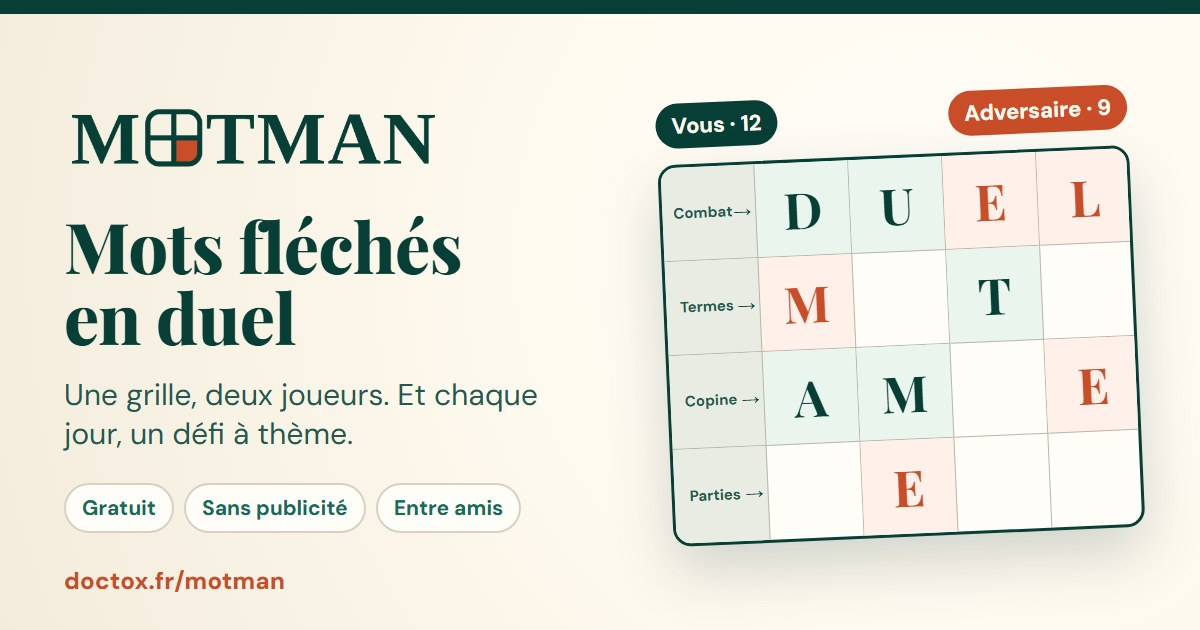
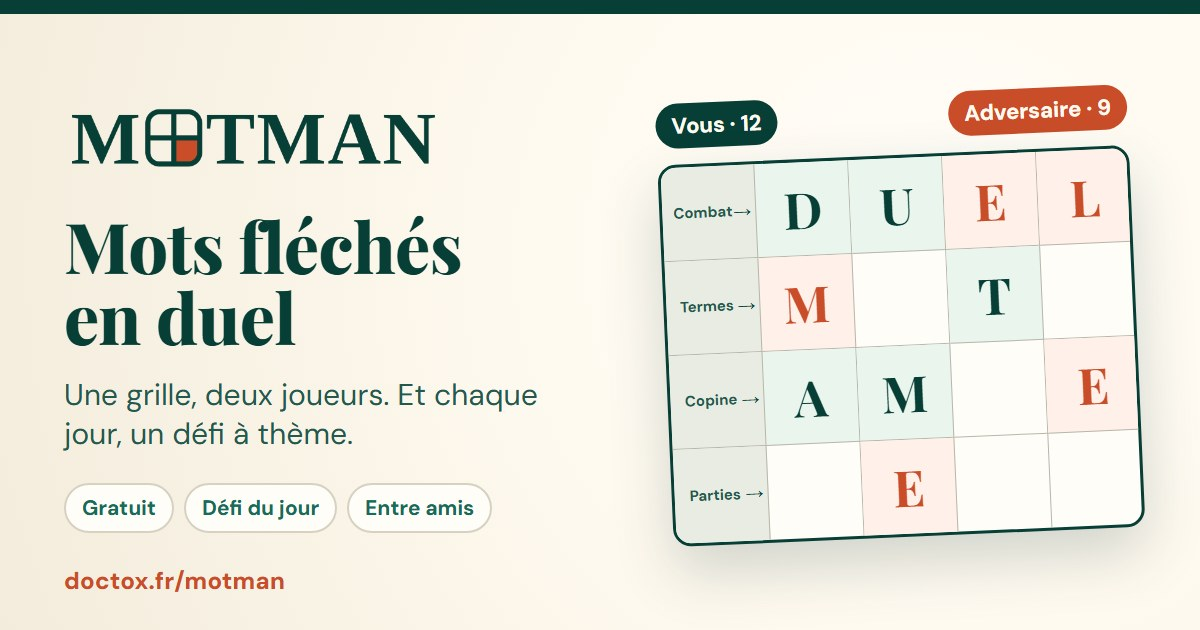
Referencement : retire la mention « sans publicite » (image d'apercu, presentation, README)

Changed region(s): [[0.1542, 0.754, 0.4317, 0.8444]]

diff --git a/index.html b/index.html
@@ -1,5 +1,5 @@
 <!doctype html><html lang="fr"><head><meta charset="UTF-8"/><meta name="viewport" content="width=device-width,initial-scale=1,viewport-fit=cover"/><meta name="theme-color" content="#073f36"/><link rel="preload" href="%BASE_URL%assets/fonts/dm-sans-latin-variable.woff2" as="font" type="font/woff2" crossorigin/><link rel="preload" href="%BASE_URL%assets/fonts/playfair-display-latin-variable.woff2" as="font" type="font/woff2" crossorigin/><link rel="icon" type="image/png" sizes="32x32" href="%BASE_URL%assets/icons/favicon-32.png"/><link rel="manifest" href="manifest.webmanifest"/><link rel="apple-touch-icon" href="%BASE_URL%assets/icons/apple-touch-icon.png"/><meta name="mobile-web-app-capable" content="yes"/><meta name="apple-mobile-web-app-capable" content="yes"/><meta name="apple-mobile-web-app-title" content="MotMan"/><meta name="apple-mobile-web-app-status-bar-style" content="default"/><title>MotMan · Mots fléchés en duel, gratuits en ligne</title>
 <!-- Référencement et aperçus de lien (Google, WhatsApp, Messenger…). Adresses ABSOLUES : ce sont celles du site public, quel que soit le build (GitHub Pages, APK). L'image vient de scripts/build_social_image.mjs ; check_pages_artifact vérifie qu'elle existe. -->
-<meta name="description" content="Jouez aux mots fléchés en duel : la même grille pour deux joueurs, contre un ami, un joueur ou un bot. Défi du jour à thème, classement et séries. Gratuit, sans publicité."/><link rel="canonical" href="https://www.doctox.fr/motman/"/><meta property="og:type" content="website"/><meta property="og:site_name" content="MotMan"/><meta property="og:locale" content="fr_FR"/><meta property="og:title" content="MotMan · Mots fléchés en duel"/><meta property="og:description" content="Une grille, deux joueurs. Et chaque jour, un défi à thème. Gratuit et sans publicité."/><meta property="og:url" content="https://www.doctox.fr/motman/"/><meta property="og:image" content="https://www.doctox.fr/motman/assets/social/motman-partage.jpg"/><meta property="og:image:width" content="1200"/><meta property="og:image:height" content="630"/><meta property="og:image:alt" content="MotMan, mots fléchés en duel : une grille partagée entre deux joueurs"/><meta name="twitter:card" content="summary_large_image"/>
+<meta name="description" content="Jouez aux mots fléchés en duel : la même grille pour deux joueurs, contre un ami, un joueur ou un bot. Défi du jour à thème, classement et séries. Gratuit, sur téléphone, tablette et ordinateur."/><link rel="canonical" href="https://www.doctox.fr/motman/"/><meta property="og:type" content="website"/><meta property="og:site_name" content="MotMan"/><meta property="og:locale" content="fr_FR"/><meta property="og:title" content="MotMan · Mots fléchés en duel"/><meta property="og:description" content="Une grille, deux joueurs. Et chaque jour, un défi à thème. Gratuit, entre amis ou contre un bot."/><meta property="og:url" content="https://www.doctox.fr/motman/"/><meta property="og:image" content="https://www.doctox.fr/motman/assets/social/motman-partage.jpg"/><meta property="og:image:width" content="1200"/><meta property="og:image:height" content="630"/><meta property="og:image:alt" content="MotMan, mots fléchés en duel : une grille partagée entre deux joueurs"/><meta name="twitter:card" content="summary_large_image"/>
 <script type="application/ld+json">{"@context":"https://schema.org","@type":"VideoGame","name":"MotMan","url":"https://www.doctox.fr/motman/","image":"https://www.doctox.fr/motman/assets/social/motman-partage.jpg","description":"Jeu de mots fléchés en duel : deux joueurs partagent la même grille. Défi du jour à thème, classement, parties entre amis.","inLanguage":"fr","genre":["Mots fléchés","Jeu de lettres"],"playMode":["MultiPlayer","SinglePlayer"],"gamePlatform":["Navigateur web","Android"],"applicationCategory":"GameApplication","operatingSystem":"Web, Android","offers":{"@type":"Offer","price":"0","priceCurrency":"EUR"}}</script>
-</head><body><div id="root"></div><noscript><main style="max-width:36em;margin:48px auto;padding:0 20px;font-family:system-ui,sans-serif;color:#073f36"><h1>MotMan, les mots fléchés en duel</h1><p>Deux joueurs, une seule grille : chaque lettre juste colore une case à votre nom. Défi du jour à thème, parties entre amis, classement. Gratuit et sans publicité.</p><p>MotMan a besoin de JavaScript pour fonctionner. <a href="mots-fleches-en-duel/">Découvrir le jeu</a></p></main></noscript><script type="module" src="/src/main.tsx"></script></body></html>
+</head><body><div id="root"></div><noscript><main style="max-width:36em;margin:48px auto;padding:0 20px;font-family:system-ui,sans-serif;color:#073f36"><h1>MotMan, les mots fléchés en duel</h1><p>Deux joueurs, une seule grille : chaque lettre juste colore une case à votre nom. Défi du jour à thème, parties entre amis, classement. Gratuit.</p><p>MotMan a besoin de JavaScript pour fonctionner. <a href="mots-fleches-en-duel/">Découvrir le jeu</a></p></main></noscript><script type="module" src="/src/main.tsx"></script></body></html>

diff --git a/public/mots-fleches-en-duel/index.html b/public/mots-fleches-en-duel/index.html
@@ -4,7 +4,7 @@
 <meta charset="utf-8">
 <meta name="viewport" content="width=device-width,initial-scale=1">
 <title>Mots fléchés en duel, gratuits en ligne · MotMan</title>
-<meta name="description" content="MotMan : les mots fléchés à deux sur la même grille, contre un ami, un joueur ou un bot. Défi du jour à thème, classement et séries. Gratuit, sans publicité, sur téléphone, tablette et ordinateur.">
+<meta name="description" content="MotMan : les mots fléchés à deux sur la même grille, contre un ami, un joueur ou un bot. Défi du jour à thème, classement et séries. Gratuit, sur téléphone, tablette et ordinateur.">
 <link rel="canonical" href="https://www.doctox.fr/motman/mots-fleches-en-duel/">
 <meta name="theme-color" content="#073f36">
 <link rel="icon" type="image/png" sizes="32x32" href="../assets/icons/favicon-32.png">
@@ -13,7 +13,7 @@
 <meta property="og:site_name" content="MotMan">
 <meta property="og:locale" content="fr_FR">
 <meta property="og:title" content="Mots fléchés en duel · MotMan">
-<meta property="og:description" content="Une grille, deux joueurs. Et chaque jour, un défi à thème. Gratuit et sans publicité.">
+<meta property="og:description" content="Une grille, deux joueurs. Et chaque jour, un défi à thème. Gratuit, entre amis ou contre un bot.">
 <meta property="og:url" content="https://www.doctox.fr/motman/mots-fleches-en-duel/">
 <meta property="og:image" content="https://www.doctox.fr/motman/assets/social/motman-partage.jpg">
 <meta property="og:image:width" content="1200">
@@ -127,7 +127,7 @@ footer a{color:var(--ink-soft)}
         <h1>Les mots fléchés, en duel</h1>
         <p class="intro">Sur MotMan, vous partagez la même grille qu’un autre joueur. Chaque lettre juste colore une case à votre nom&nbsp;: à la fin, le meilleur score l’emporte.</p>
         <a class="bouton" href="../">Jouer maintenant</a>
-        <p class="precision">Gratuit, sans publicité, sans rien télécharger. On joue tout de suite, sans inscription.</p>
+        <p class="precision">Gratuit, sans rien télécharger. On joue tout de suite, sans inscription.</p>
       </div>
       <div class="jeu" aria-hidden="true">
         <div class="scores"><span class="vous">Vous · 12</span><span class="adv">Adversaire · 9</span></div>
@@ -223,7 +223,7 @@ footer a{color:var(--ink-soft)}
       <h2>Questions fréquentes</h2>
       <p class="chapeau">Tout ce qu’il faut savoir avant la première grille.</p>
       <div class="questions">
-        <details><summary>MotMan est-il vraiment gratuit&nbsp;?</summary><p>Oui. MotMan est gratuit et n’affiche aucune publicité. Les plumes gagnées en jouant servent à personnaliser votre profil&nbsp;: avatar, cadre, titre.</p></details>
+        <details><summary>MotMan est-il vraiment gratuit&nbsp;?</summary><p>Oui, MotMan est gratuit. Les plumes gagnées en jouant servent à personnaliser votre profil&nbsp;: avatar, cadre, titre.</p></details>
         <details><summary>Faut-il créer un compte&nbsp;?</summary><p>Non, vous jouez tout de suite en invité. Un compte, Google ou par e-mail, sert seulement à garder votre progression d’un appareil à l’autre.</p></details>
         <details><summary>Peut-on jouer seul&nbsp;?</summary><p>Oui&nbsp;: le mode Solo et le défi du jour se jouent contre un bot, à toute heure.</p></details>
         <details><summary>Comment jouer avec un ami&nbsp;?</summary><p>Ajoutez-le à vos amis dans MotMan, puis invitez-le à une partie. En temps illimité, chacun joue son tour quand il a un moment.</p></details>

diff --git a/README.md b/README.md
@@ -2,6 +2,6 @@
 
 **▶ Jouer : [www.doctox.fr/motman](https://www.doctox.fr/motman/)** · [Découvrir le jeu](https://www.doctox.fr/motman/mots-fleches-en-duel/)
 
-Deux joueurs partagent la même grille de mots fléchés : chaque lettre juste colore une case au nom de celui qui l’a trouvée, et le meilleur score l’emporte. Défi du jour à thème, parties entre amis, mode classé. Gratuit, sans publicité, dans le navigateur sur téléphone, tablette et ordinateur.
+Deux joueurs partagent la même grille de mots fléchés : chaque lettre juste colore une case au nom de celui qui l’a trouvée, et le meilleur score l’emporte. Défi du jour à thème, parties entre amis, mode classé. Gratuit, dans le navigateur sur téléphone, tablette et ordinateur.
 
 Ce dépôt contient le code du jeu (React, Vite, Supabase, Capacitor). Les grilles et leurs solutions n’y figurent pas.
